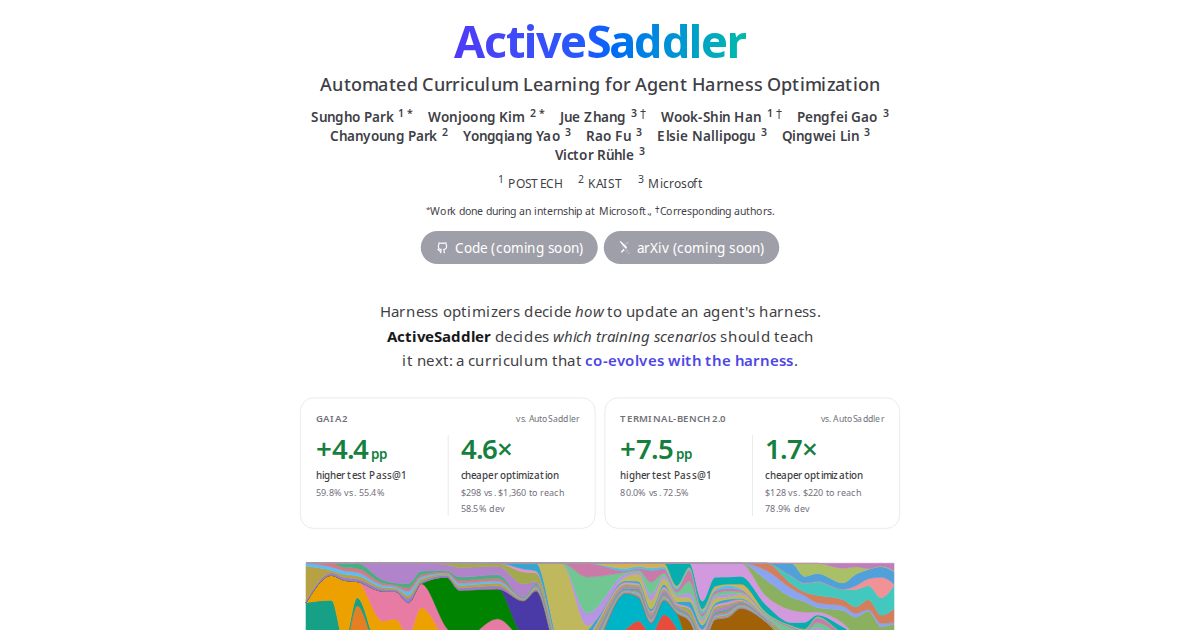
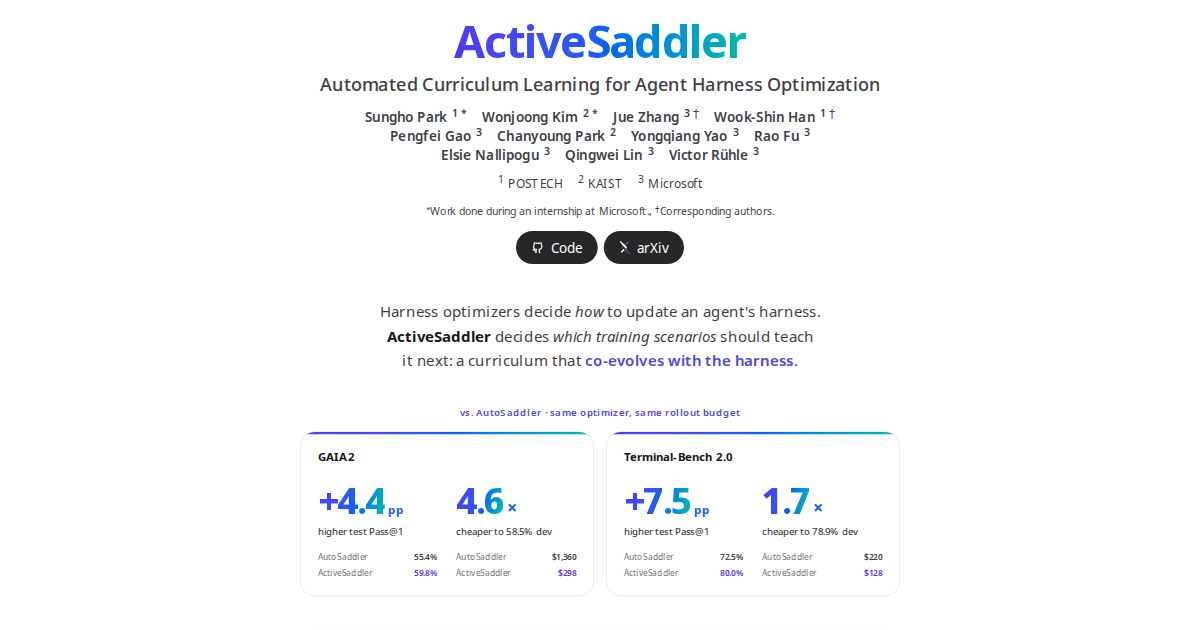
Redesign hero results and artwork; link the arXiv paper
- Headline results: one panel per benchmark in the title's indigo-teal
  gradient, with AutoSaddler vs. ActiveSaddler values under each number.
- Hero figure hung as a framed print with a museum-style wall label,
  'What the Agent Practices On, Over Time'.
- arXiv button now links to https://arxiv.org/abs/2610.00906.

Changed region(s): [[0.2467, 0.6333, 0.7708, 1.0], [0.2467, 0.1508, 0.74, 0.2714], [0.3392, 0.3619, 0.6475, 0.4222]]

diff --git a/src/components/HeroStream.tsx b/src/components/HeroStream.tsx
@@ -13,13 +13,17 @@ const BANDS = STACK_ORDER;
 const COLS = STREAM;
 
 /** Hero figure: how the curriculum's pull-probability mass moves across arms over the run. */
-export default function HeroStream() {
+/**
+ * `artwork`: the framed hero piece. No axis labels or legend (the wall label
+ * carries the context) and edge-to-edge bands; hover still identifies an arm.
+ */
+export default function HeroStream({ artwork = false }: { artwork?: boolean }) {
   const [ref, width] = useElementWidth<HTMLDivElement>(900);
   const reduced = useReducedMotion();
   const [hover, setHover] = useState<number | null>(null);
   const [hoverArm, setHoverArm] = useState<number | null>(null);
-  const H = width < 560 ? 170 : 220;
-  const M = { l: 8, r: 8, t: 6, b: 22 };
+  const H = artwork ? (width < 560 ? 200 : 300) : width < 560 ? 170 : 220;
+  const M = artwork ? { l: 0, r: 0, t: 0, b: 0 } : { l: 8, r: 8, t: 6, b: 22 };
   const x = scaleLinear().domain([COLS[0].it, COLS[COLS.length - 1].it]).range([M.l, width - M.r]);
   const y = scaleLinear().domain([0, 1]).range([H - M.b, M.t]);
 
@@ -57,7 +61,7 @@ export default function HeroStream() {
             />
           ))}
         </g>
-        {COLS.filter(
+        {!artwork && COLS.filter(
           (c, i) =>
             i === 0 ||
             i === COLS.length - 1 ||
@@ -122,7 +126,7 @@ export default function HeroStream() {
           <div className="mt-0.5 leading-snug">{arm.label}</div>
         </div>
       )}
-      <div className="mt-1 flex flex-wrap items-center justify-center gap-x-3 gap-y-1 text-[0.72rem]" style={{ color: "var(--cl-muted)" }}>
+      {!artwork && <div className="mt-1 flex flex-wrap items-center justify-center gap-x-3 gap-y-1 text-[0.72rem]" style={{ color: "var(--cl-muted)" }}>
         {NAMED.map((a) => (
           <span key={a.p} className="inline-flex items-center gap-1">
             <span className="inline-block size-2.5 rounded-sm" style={{ background: armColor(a.p) }} />P{a.p}
@@ -136,7 +140,7 @@ export default function HeroStream() {
           </span>
           +{REST.length} more weaknesses
         </span>
-      </div>
+      </div>}
     </div>
   );
 }
